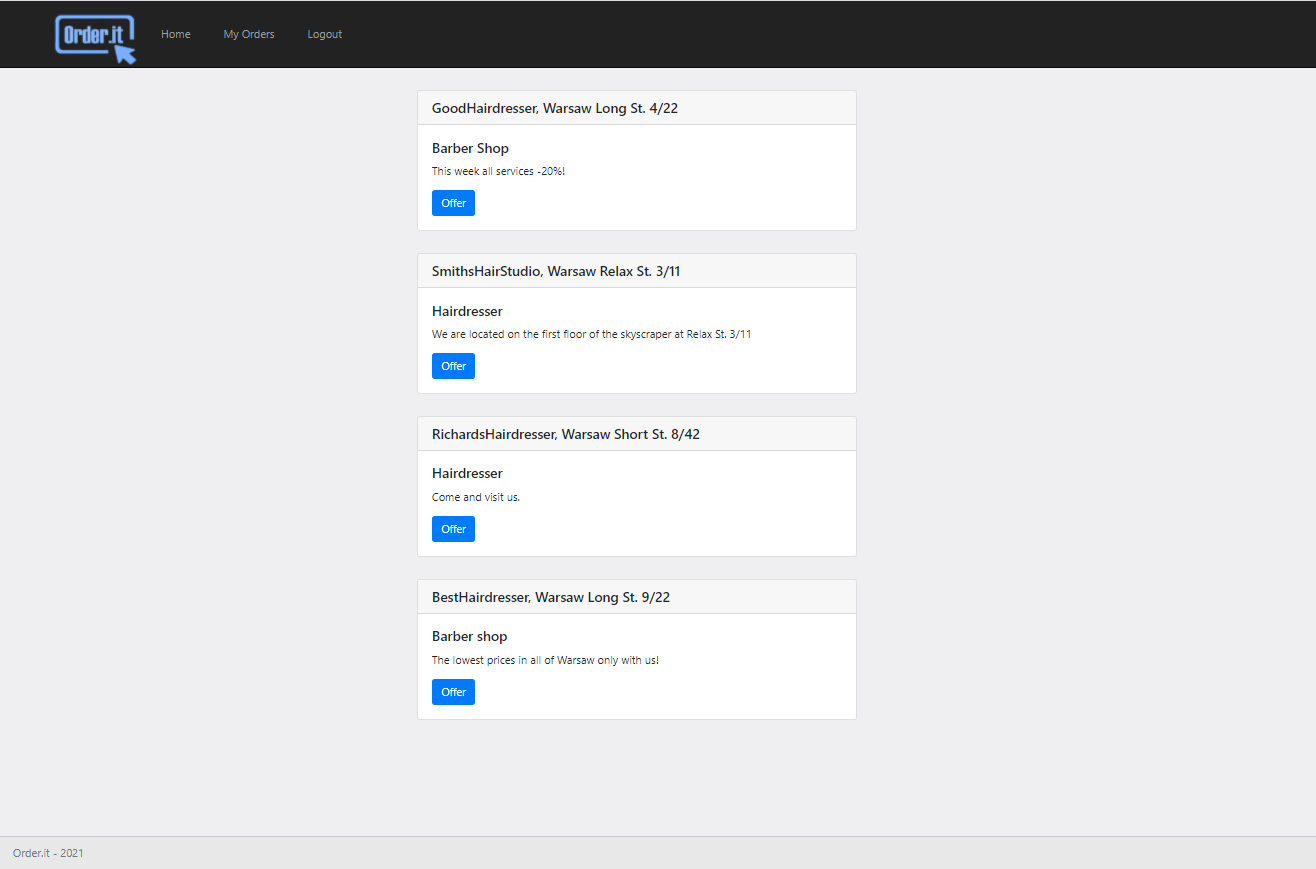
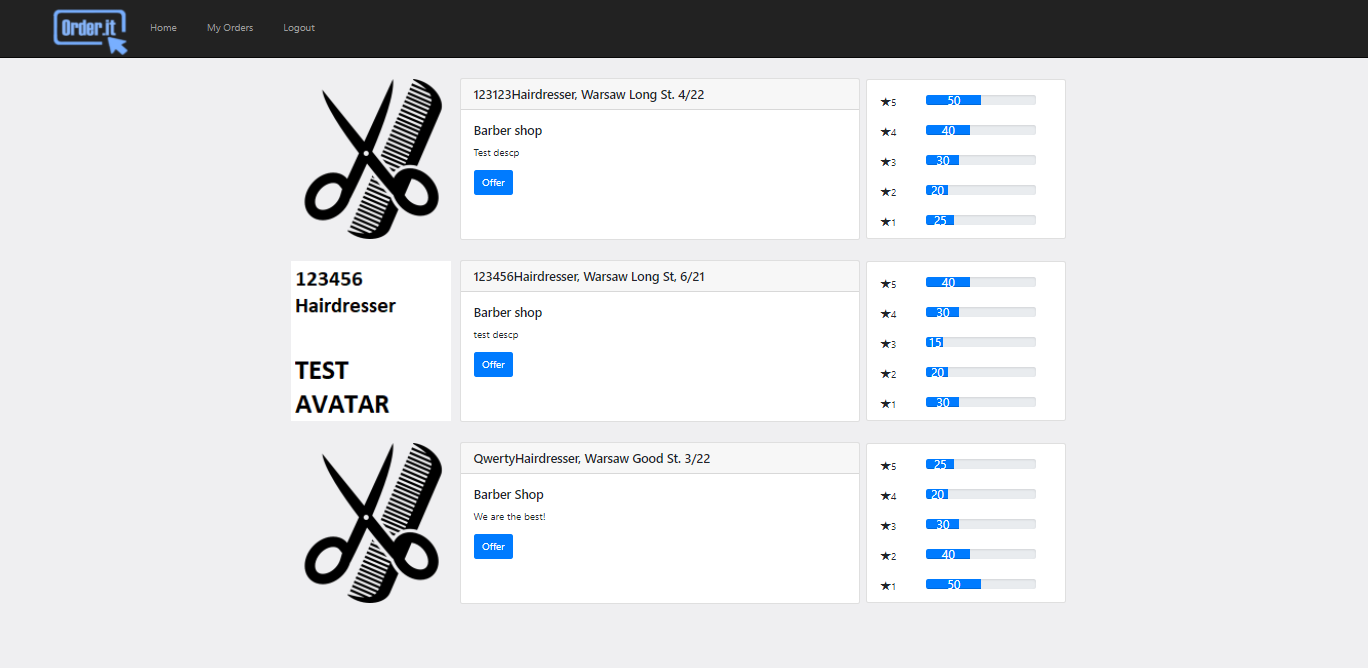
Grade system, new readme ss

diff --git a/src/main/resources/templates/order.html b/src/main/resources/templates/order.html
@@ -67,17 +67,20 @@
                     </div>
                     <div class="col-xs-8 col-md-9">
                         <div class="progress">
-                            <div class="progress-bar" role="progressbar" aria-valuenow="55" aria-valuemin="0" aria-valuemax="100" style="width: 25%;"></div>
+                            <div class="progress-bar" role="progressbar"
+                                 aria-valuenow="55" aria-valuemin="0" aria-valuemax="100"
+                                 th:style="'width: ' + ${shop.shopGrade.numberOf5} + '%'" th:text="${shop.shopGrade.numberOf5}"></div>
                         </div>
                     </div>
                     <!-- end 5 -->
                         <div class="col-xs-3 col-md-3 text-right">
-                            <span class="glyphicon glyphicon-star"></span>2
+                            <span class="glyphicon glyphicon-star"></span>4
                         </div>
                         <div class="col-xs-8 col-md-9">
                             <div class="progress">
                                 <div class="progress-bar progress-bar-warning" role="progressbar" aria-valuenow="20"
-                                     aria-valuemin="0" aria-valuemax="100" style="width: 3%" th:text="${shop.shopGrade.numberOf2}">
+                                     aria-valuemin="0" aria-valuemax="100"
+                                     th:style="'width: ' + ${shop.shopGrade.numberOf4} + '%'" th:text="${shop.shopGrade.numberOf4}">
                                 </div>
                             </div>
                         </div>
@@ -88,7 +91,8 @@
                     <div class="col-xs-8 col-md-9">
                         <div class="progress">
                             <div class="progress-bar" role="progressbar" aria-valuenow="20"
-                                 aria-valuemin="0" aria-valuemax="100" style="width: 2%" th:text="${shop.shopGrade.numberOf3}"></div>
+                                 aria-valuemin="0" aria-valuemax="100"
+                                 th:style="'width: ' + ${shop.shopGrade.numberOf3} + '%'" th:text="${shop.shopGrade.numberOf3}"></div>
                         </div>
                     </div>
                     <!-- end 3 -->
@@ -98,7 +102,8 @@
                     <div class="col-xs-8 col-md-9">
                         <div class="progress">
                             <div class="progress-bar progress-bar-warning" role="progressbar" aria-valuenow="20"
-                                 aria-valuemin="0" aria-valuemax="100" style="width: 3%" th:text="${shop.shopGrade.numberOf2}"></div>
+                                 aria-valuemin="0" aria-valuemax="100"
+                                 th:style="'width: ' + ${shop.shopGrade.numberOf2} + '%'" th:text="${shop.shopGrade.numberOf2}"></div>
                         </div>
                     </div>
                     <!-- end 2 -->
@@ -108,7 +113,8 @@
                     <div class="col-xs-8 col-md-9">
                         <div class="progress">
                             <div class="progress-bar progress-bar-danger" role="progressbar" aria-valuenow="80"
-                                 aria-valuemin="0" aria-valuemax="100" style="width: 0%" th:text="${shop.shopGrade.numberOf1}"></div>
+                                 aria-valuemin="0" aria-valuemax="100"
+                                 th:style="'width: ' + ${shop.shopGrade.numberOf1} + '%'" th:text="${shop.shopGrade.numberOf1}"></div>
                         </div>
                     </div>
                     <!-- end 1 -->

diff --git a/src/main/java/pl/od/orderit/shops/ShopController.java b/src/main/java/pl/od/orderit/shops/ShopController.java
@@ -128,8 +128,12 @@ public class ShopController {
                                           @PathVariable("shopName")String shopName ) {
 
         ModelAndView modelAndView = new ModelAndView();
+
+
         modelAndView.addObject("shop", shopService.findShopsByName(shopTown, shopAmenity, shopName));
         modelAndView.setViewName("offer");
+
+        System.out.println(modelAndView);
         return modelAndView;
     }
 
